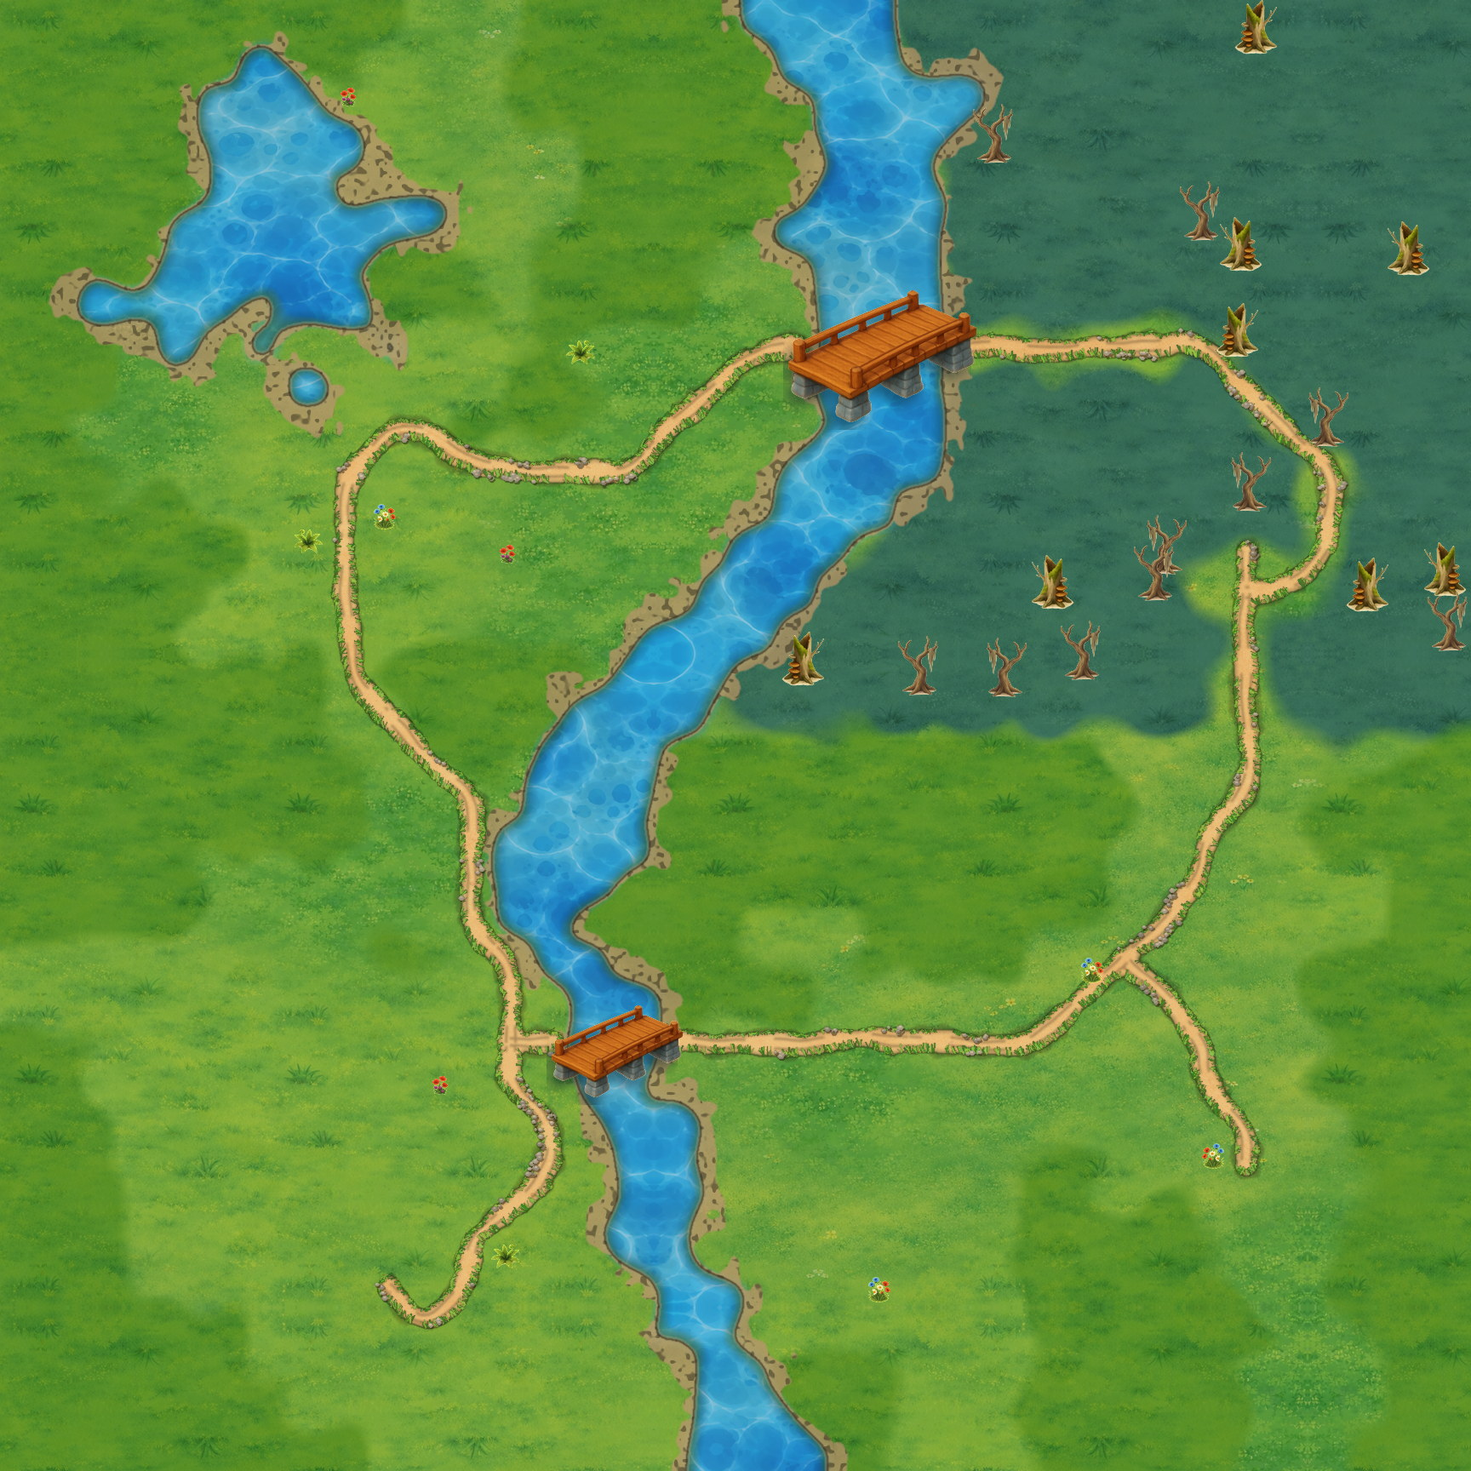
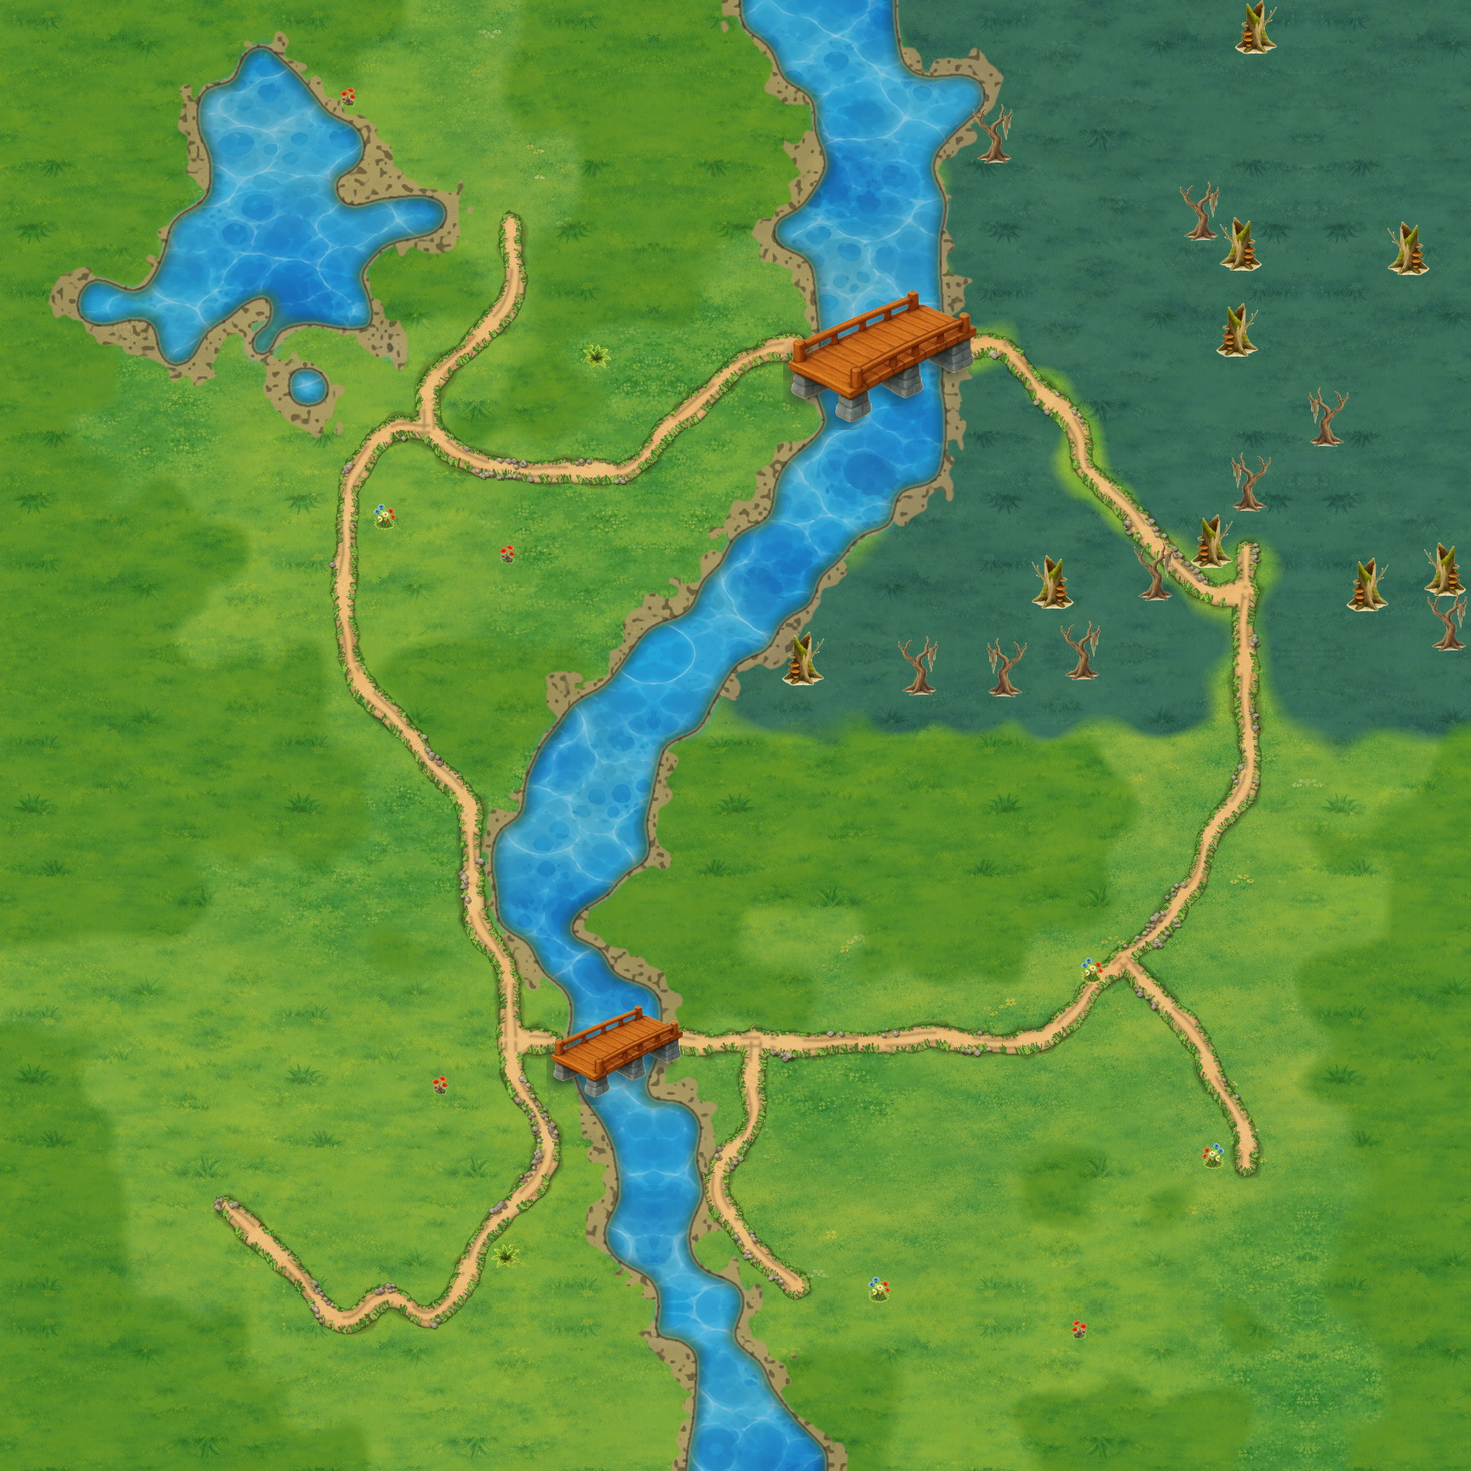
Polana, runda 4: gęstość ze startu do pasa spornego, odnogi do kopalń, grzbiety wokół fortu
- Północna łąka rozstawiona ręcznie (LAKA_POLNOCNA): stosy zamiast
  samotnych pokeballi, sklepik przy domku na drzewie; liczona jako pogranicze.
- Kopalnia odłamków w dolinie bez straży z odnogą od zamku; odnogi do
  jaskini i na plażę; sad jagód wroga wcięty w masyw granicy.
- Skały wokół fortu w dwa grzbiety z przesmykiem; polana w martwym lesie
  SE z ośrodkiem ewolucji; ranczo i stosy za mostem.
- 64 obiekty, obiekt co 8,9 pola, strefy 6/40/18, pasy [5,7,27,13,12],
  bez bitwy 24 %, ekran startowy 7 rzeczy + straż mostu.

Claude-Session: https://claude.ai/code/session_01BGiaZhgTwDgLbUxsH7vpi6

diff --git a/src/data/plansza-teren-polana.ts b/src/data/plansza-teren-polana.ts
@@ -10,38 +10,38 @@
 export const TEREN = [
   'TTTTTTTTTT###TTTTT~~~~##############',
   'TTTTTT~TT###TTTTTTT~~~##############',
-  'TTTTT~~~.#.#TTTTTTTT~~~~###j########',
-  'TTTTT~~~~.....TTTTTT~~~jj#j####jjjj#',
-  'TTTTT~~~......TTTTTT~~~jjjjj##jjjjj#',
-  'TTTT~~~~~~~...TTTTT~~~~jjjjj##jjj#j#',
-  'TTTT~~~~~TTT.TTTT..T~~~jjjjjjjjj####',
-  'TT~~~~.~~TTT.TTTT...~~~jjjjjjjjj####',
-  'TTT.~.~..~...T....============jj#j##',
-  'TTT....~....TTT..=..~~~jjjjjjj=jjjjj',
-  'TT.......==T.T..=...~~~jjjjjjjj=jjjj',
-  'TTT.....=..=====...~~~~jjjjjjjjj=jjj',
-  'TT.TT...=..........~~~jjjjj##jjj=###',
-  'TTTTTT..=.........~~~jjjjjj##j=j=###',
-  'TTTTT...=........~~~jjjjjjj##.==jj##',
+  'TTTTT~~~.#.#TTTTTTTT~~~~############',
+  'TTTTT~~~~.....TTTTTT~~~jjjj####jjjj#',
+  'TTTTT~~~......TTTTTT~~~jjjj####jjjj#',
+  'TTTT~~~~~~~.=.TTTTT~~~~jjjjjjjjjjjj#',
+  'TTTT~~~~~TTT=TTTT..T~~~jjjjjjjjjj###',
+  'TT~~~~.~~TTT=TTTT...~~~jjjjjjjjjj###',
+  'TTT.~.~..~.=.T....=======jjjjjjjj###',
+  'TTT....~..=.TTT..=..~~~jj=jjjjjjj###',
+  'TT.......==T.T..=...~~~jjj=jjjjjj###',
+  'TTT.....=..=====...~~~~jjj=jjjjjj###',
+  'TT.TT...=..........~~~jjjjj=jjjjj###',
+  'TTTTTT..=.........~~~jjjjjjj=j=jj###',
+  'TTTTT...=........~~~jjjjjjjjj==jj###',
   'TTTT....=.......~~~jjjjjjjj###=#####',
   'TTTTTTTT=TTTTTT~~~############=#####',
   'TTTTTTTT.=TTTT~~~#############=#####',
-  'TTTTTTTTT.=TT~~~TTTTTTTTTTT...=...TT',
-  'TTTTTTTTT..=.~~~TTTTTTTTTTTT..=.TTTT',
+  'TTTTTTTTT.=TT~~~TTTTTTTTTTT...=....T',
+  'TTTTTTTTT..=.~~~TTTTTTTTTTTT..=....T',
   'TTTTTTTTT..=~~~~TTTTTTTTTTT..=..TTTT',
   'TTTTT......=~~~TTTTTTTTTTTT..=....TT',
   'TTTTT......=~~TTTT...TTTTTT.=.....TT',
   '#########TT.=~~TTT...TTTT..=....TTTT',
   '#########...=.~~TTTT......=.=...TTTT',
   'TT#########.==============...=...TTT',
-  'TT#########.=.~~.............=..TTTT',
-  'TTT..........=.~~.............=..TTT',
-  'TTT..........=.~~.######.TT##.=...TT',
-  'TTT.........=..~~.######.TT#T....TTT',
-  'TTT........=...~~.....###TTTTT...TTT',
-  'TTT......=.=....~~....###TTTTT..TTTT',
-  'TTTTTT....=.....~~....###TTTTTT#.TTT',
-  'TTTTTT...........~~TTT###TTTTT####TT',
+  'TT#########.=.~~..=..........=..TTTT',
+  'TTT..........=.~~.=...........=..TTT',
+  'TTT..........=.~~=######.TT##.=...TT',
+  'TTT..=......=..~~=######.TT#T....TTT',
+  'TTT...=....=...~~.=...###........TTT',
+  'TTT....=.=.=....~~.=..###.......TTTT',
+  'TTTTTT..=.=.....~~....###.....T#.TTT',
+  'TTTTTT...........~~TTT###.....####TT',
   'TTTTTTT..........~~TTT###TTTTTT###TT',
   'TTTTTTTTT........~~~TT###TTTTT###TTT',
 ];
@@ -57,6 +57,9 @@ export const PUNKTY = {
   'wschodnia laka': { x: 27, y: 23 },
   'zamek wroga': { x: 30, y: 13 },
   'poludniowy wschod': { x: 30, y: 28 },
+  'kopalnia domu': { x: 5, y: 29 },
+  'jaskinia': { x: 19, y: 31 },
+  'plaza': { x: 12, y: 5 },
 };
 
 /**
@@ -79,25 +82,34 @@ export const ROZSTAWIENIE: Array<{
   { x: 12, y: 33, rodzaj: 'kopalnia', strefa: 'dom', surowiec: 'jagoda' },
   { x: 11, y: 27, rodzaj: 'surowiec', strefa: 'dom', surowiec: 'odlamek' },
   { x: 11, y: 28, rodzaj: 'skrzynia', strefa: 'dom' },
-  { x: 14, y: 33, rodzaj: 'skrzynia', strefa: 'dom' },
-  { x: 14, y: 34, rodzaj: 'surowiec', strefa: 'dom', surowiec: 'jagoda' },
+  { x: 5, y: 28, rodzaj: 'kopalnia', strefa: 'dom', surowiec: 'odlamek' },
   { x: 9, y: 17, rodzaj: 'potwor', strefa: 'dom', sila: 'slaby' },
   { x: 17, y: 25, rodzaj: 'potwor', strefa: 'pogranicze', sila: 'slaby' },
   { x: 23, y: 8, rodzaj: 'potwor', strefa: 'wroga', sila: 'sredni' },
   { x: 30, y: 16, rodzaj: 'potwor', strefa: 'wroga', sila: 'silny' },
-  { x: 12, y: 7, rodzaj: 'potwor', strefa: 'dom', sila: 'slaby' },
+  { x: 12, y: 7, rodzaj: 'potwor', strefa: 'pogranicze', sila: 'slaby' },
   { x: 31, y: 5, rodzaj: 'potwor', strefa: 'wroga', sila: 'sredni' },
-  { x: 10, y: 4, rodzaj: 'kopalnia', strefa: 'dom', surowiec: 'pokeball' },
-  { x: 13, y: 4, rodzaj: 'artefakt', strefa: 'dom' },
-  { x: 12, y: 3, rodzaj: 'skrzynia', strefa: 'dom' },
-  { x: 15, y: 12, rodzaj: 'budynek', strefa: 'dom', budynek: 'drzewo-wiedzy' },
-  { x: 6, y: 9, rodzaj: 'budynek', strefa: 'dom', budynek: 'zrodlo' },
-  { x: 13, y: 15, rodzaj: 'budynek', strefa: 'dom', budynek: 'gniazdo' },
-  { x: 3, y: 10, rodzaj: 'budynek', strefa: 'dom', budynek: 'chatka' },
-  { x: 9, y: 13, rodzaj: 'budynek', strefa: 'dom', budynek: 'oboz-treningowy' },
-  { x: 5, y: 15, rodzaj: 'surowiec', strefa: 'dom', surowiec: 'pokeball' },
-  { x: 18, y: 11, rodzaj: 'surowiec', strefa: 'dom', surowiec: 'pokeball' },
-  { x: 12, y: 12, rodzaj: 'skrzynia', strefa: 'dom' },
+  { x: 10, y: 4, rodzaj: 'kopalnia', strefa: 'pogranicze', surowiec: 'pokeball' },
+  { x: 13, y: 4, rodzaj: 'artefakt', strefa: 'pogranicze' },
+  { x: 12, y: 3, rodzaj: 'skrzynia', strefa: 'pogranicze' },
+  { x: 11, y: 4, rodzaj: 'surowiec', strefa: 'pogranicze', surowiec: 'kamien' },
+  { x: 6, y: 9, rodzaj: 'budynek', strefa: 'pogranicze', budynek: 'zrodlo' },
+  { x: 3, y: 10, rodzaj: 'budynek', strefa: 'pogranicze', budynek: 'chatka' },
+  { x: 5, y: 12, rodzaj: 'budynek', strefa: 'pogranicze', budynek: 'woz' },
+  { x: 5, y: 14, rodzaj: 'skrzynia', strefa: 'pogranicze' },
+  { x: 4, y: 15, rodzaj: 'surowiec', strefa: 'pogranicze', surowiec: 'jagoda' },
+  { x: 6, y: 15, rodzaj: 'surowiec', strefa: 'pogranicze', surowiec: 'pokeball' },
+  { x: 10, y: 13, rodzaj: 'budynek', strefa: 'pogranicze', budynek: 'oboz-treningowy' },
+  { x: 12, y: 12, rodzaj: 'skrzynia', strefa: 'pogranicze' },
+  { x: 11, y: 12, rodzaj: 'surowiec', strefa: 'pogranicze', surowiec: 'odlamek' },
+  { x: 15, y: 12, rodzaj: 'budynek', strefa: 'pogranicze', budynek: 'drzewo-wiedzy' },
+  { x: 13, y: 15, rodzaj: 'budynek', strefa: 'pogranicze', budynek: 'gniazdo' },
+  { x: 18, y: 11, rodzaj: 'surowiec', strefa: 'pogranicze', surowiec: 'pokeball' },
+  { x: 17, y: 12, rodzaj: 'skrzynia', strefa: 'pogranicze' },
+  { x: 15, y: 9, rodzaj: 'surowiec', strefa: 'pogranicze', surowiec: 'kamien' },
+  { x: 16, y: 9, rodzaj: 'surowiec', strefa: 'pogranicze', surowiec: 'odlamek' },
+  { x: 16, y: 14, rodzaj: 'skrzynia', strefa: 'pogranicze' },
+  { x: 15, y: 14, rodzaj: 'surowiec', strefa: 'pogranicze', surowiec: 'jagoda' },
   { x: 19, y: 30, rodzaj: 'kopalnia', strefa: 'pogranicze', surowiec: 'odlamek' },
   { x: 18, y: 23, rodzaj: 'budynek', strefa: 'pogranicze', budynek: 'wieza-obserwacyjna' },
   { x: 25, y: 23, rodzaj: 'skrzynia', strefa: 'pogranicze' },
@@ -107,16 +119,24 @@ export const ROZSTAWIENIE: Array<{
   { x: 31, y: 29, rodzaj: 'artefakt', strefa: 'pogranicze' },
   { x: 28, y: 20, rodzaj: 'kopalnia', strefa: 'pogranicze', surowiec: 'kamien' },
   { x: 32, y: 21, rodzaj: 'surowiec', strefa: 'pogranicze', surowiec: 'pokeball' },
+  { x: 33, y: 21, rodzaj: 'surowiec', strefa: 'pogranicze', surowiec: 'jagoda' },
   { x: 31, y: 24, rodzaj: 'budynek', strefa: 'pogranicze', budynek: 'arena' },
   { x: 30, y: 26, rodzaj: 'budynek', strefa: 'pogranicze', budynek: 'wiatrak' },
-  { x: 25, y: 9, rodzaj: 'artefakt', strefa: 'wroga' },
+  { x: 28, y: 31, rodzaj: 'budynek', strefa: 'pogranicze', budynek: 'osrodek-ewolucji' },
+  { x: 25, y: 32, rodzaj: 'skrzynia', strefa: 'pogranicze' },
+  { x: 26, y: 33, rodzaj: 'surowiec', strefa: 'pogranicze', surowiec: 'odlamek' },
+  { x: 26, y: 30, rodzaj: 'artefakt', strefa: 'pogranicze' },
+  { x: 33, y: 19, rodzaj: 'budynek', strefa: 'pogranicze', budynek: 'ranczo' },
+  { x: 25, y: 10, rodzaj: 'artefakt', strefa: 'wroga' },
   { x: 24, y: 10, rodzaj: 'surowiec', strefa: 'wroga', surowiec: 'pokeball' },
   { x: 25, y: 11, rodzaj: 'surowiec', strefa: 'wroga', surowiec: 'kamien' },
   { x: 26, y: 6, rodzaj: 'skrzynia', strefa: 'wroga' },
   { x: 24, y: 5, rodzaj: 'budynek', strefa: 'wroga', budynek: 'ognisko' },
-  { x: 34, y: 11, rodzaj: 'surowiec', strefa: 'wroga', surowiec: 'kamien' },
-  { x: 35, y: 11, rodzaj: 'surowiec', strefa: 'wroga', surowiec: 'pokeball' },
-  { x: 35, y: 9, rodzaj: 'skrzynia', strefa: 'wroga' },
+  { x: 23, y: 12, rodzaj: 'skrzynia', strefa: 'wroga' },
+  { x: 27, y: 14, rodzaj: 'surowiec', strefa: 'wroga', surowiec: 'pokeball' },
+  { x: 24, y: 15, rodzaj: 'kopalnia', strefa: 'wroga', surowiec: 'jagoda' },
+  { x: 28, y: 6, rodzaj: 'skrzynia', strefa: 'wroga' },
+  { x: 29, y: 7, rodzaj: 'surowiec', strefa: 'wroga', surowiec: 'odlamek' },
   { x: 31, y: 3, rodzaj: 'kopalnia', strefa: 'wroga', surowiec: 'pokeball' },
   { x: 34, y: 3, rodzaj: 'artefakt', strefa: 'wroga' },
   { x: 33, y: 4, rodzaj: 'skrzynia', strefa: 'wroga' },

diff --git a/tools/mapy/polana.py b/tools/mapy/polana.py
@@ -53,6 +53,13 @@ się jako trzeci, piaszczysty bród. Ekran startowy: 10 obiektów z zamkiem,
 suchym, wschodnim brzegu; straż plaży i straż mostu mają ściany lasu po obu
 stronach. Kopalnie gracza bez dubla kamienia: kamieniołom, sad, jaskinia
 odłamków w kieszeni, sad na północnej łące, złoto na plaży.
+
+Runda 15 (werdykt r4: przegrana ślepo, 22 TAK / 7 CZĘŚCIOWO / 1 NIE — G1;
+„za rzadka, pas sporny najchudszy"). Obiekt co 8,9 pola (64), pas sporny
+(północna łąka za strażą (9, 17) i łąka za mostem) jest najbogatszy, ekran
+startowy ma 7 rzeczy i straż mostu. Kopalnia odłamków stoi w dolinie bez
+straży, jaskinia (19, 30) i plaża mają odnogi traktu, wróg ma sad (24, 15).
+Skały wokół fortu tworzą dwa grzbiety zamiast rozsypanych kopców.
 """
 
 import math
@@ -218,6 +225,11 @@ PUNKTY = {
     'zamek wroga': (30, 13),
     # Runda 12 (F1): południowa odnoga kończy się na skrzyni, nie w lesie.
     'poludniowy wschod': (30, 28),
+    # Runda 15 (D1): odnogi traktu do kopalń — odłamki za zamkiem, jaskinia
+    # w kieszeni za mostem (wzdłuż brzegu, 17, 26–30), plaża ze złotem.
+    'kopalnia domu': (5, 29),
+    'jaskinia': (19, 31),
+    'plaza': (12, 5),
 }
 
 #: Drogi. Główna prowadzi z zamku przez południowy bród pod sam fort — gracz,
@@ -227,6 +239,9 @@ SZLAKI = [
     ['zamek gracza', 'start', 'brod zachod', 'brod wschod', 'wschodnia laka', 'zamek wroga'],
     ['brod zachod', 'polnocna laka', 'brod polnocny zachod', 'brod polnocny wschod', 'zamek wroga'],
     ['wschodnia laka', 'poludniowy wschod'],
+    ['zamek gracza', 'kopalnia domu'],
+    ['brod wschod', 'jaskinia'],
+    ['polnocna laka', 'plaza'],
 ]
 
 #: Runda 12: granica krainy wroga — wiersz, do którego (włącznie) sięga za
@@ -473,6 +488,30 @@ def popraw_teren(g, mapa):
             for x in range(x0, x1 + 1):
                 if mapa[y][x] in '.,jT':
                     mapa[y][x] = '#'
+    # Runda 15 (E4): misa fortu bez rozsypanych kopców, skały w dwóch
+    # grzbietach (`GRZBIETY_FORTU`).
+    def w_grzbiecie(x, y):
+        return any(a <= x <= c and b <= y <= d for a, b, c, d in GRZBIETY_FORTU)
+
+    mx0, my0, mx1, my1 = MISA_FORTU
+    for y in range(my0, my1 + 1):
+        for x in range(mx0, mx1 + 1):
+            if mapa[y][x] == '#' and strefa(x, y) == 'wroga' and not w_grzbiecie(x, y):
+                mapa[y][x] = 'j'
+    for x0, y0, x1, y1 in GRZBIETY_FORTU:
+        for y in range(y0, y1 + 1):
+            for x in range(x0, x1 + 1):
+                if mapa[y][x] in '.,jT':
+                    mapa[y][x] = '#'
+    for x, y in KARCZUNEK_RANCZA:
+        if mapa[y][x] == 'T':
+            mapa[y][x] = '.'
+    # Runda 15 (B4, E2): polana w lesie SE.
+    x0, y0, x1, y1 = POLANA_SE
+    for y in range(y0, y1 + 1):
+        for x in range(x0, x1 + 1):
+            if mapa[y][x] in 'T#':
+                mapa[y][x] = '.'
 
 
 #: Runda 13 (G4): masyw zamykający krainę wroga od południa (x0, y0, x1, y1).
@@ -480,12 +519,31 @@ SKALY_WROGA = [(22, 16, 29, 17)]
 
 FORT = PUNKTY['zamek wroga']
 
+#: Runda 15: wiersz szczeliny w lesie nad doliną domu — północ od niego to
+#: już pas sporny (patrz `strefa`).
+PRZELECZ_DOMU_Y = 16
+
+#: Runda 15 (E4): skały wokół fortu jednym pasmem — grzbiet północny
+#: (27–30, 2–4), który z przesmykiem (31, 5) zamyka róg NE, i grzbiet
+#: wschodni (33–35, 6–14) schodzący do masywu granicy. Pojedyncze kopce
+#: w misie fortu (25, 3), (27–28, 12–15), (28–29, 5), (32, 6–7) znikają.
+GRZBIETY_FORTU = [(27, 2, 30, 4), (33, 6, 35, 14)]
+MISA_FORTU = (23, 3, 34, 14)
+
+#: Runda 15 (B4, E2): polana w martwym masywie lasu na południowym wschodzie
+#: (x0, y0, x1, y1) — wejście od końca odnogi (30, 30–31), w środku ośrodek
+#: ewolucji i stos.
+POLANA_SE = (25, 30, 29, 33)
+
 
 def strefa(x, y):
     """Za rzeką zaczyna się „pogranicze", a za pasem lasu (wiersze 15–17)
     na północ — kraina wroga (runda 12: granica stref = granica terenu)."""
     if x < rzeka_x(y):
-        return 'dom'
+        # Runda 15 (E2, G1): północna łąka za strażą przełęczy (9, 17) to pas
+        # sporny, nie dom — dolina domu kończy się na grzbiecie lasu w wierszu
+        # 16. Tak liczy ją krytyk („pas sporny z pustą zachodnią łąką").
+        return 'pogranicze' if y <= PRZELECZ_DOMU_Y else 'dom'
     if y <= GRANICA_WROGA:
         return 'wroga'
     return 'pogranicze'
@@ -579,10 +637,10 @@ PIERWSZY_EKRAN_DOM = [
     # Runda 12 (G2): skrzynia leżała na trakcie tuż przed mostem — teraz
     # w stosie z odłamkami przy kopalni.
     ([(11, 28), (10, 29)], ('skrzynia', None)),
-    # Runda 14 (B2): skrzynia (9, 34) i koszyk (6, 30) leżały w bezdrożnym
-    # lesie SW — teraz stos na końcu odnogi, za sadem.
-    ([(14, 33), (15, 33), (15, 34)], ('skrzynia', None)),
-    ([(14, 34), (13, 34), (14, 35)], ('surowiec', 'jagoda')),
+    # Runda 15 (A2, G1): kopalnia odłamków w dolinie, bez straży, za zamkiem
+    # na końcu krótkiej odnogi traktu. Stos skrzynia + jagoda spod sadu
+    # (14, 33–34) poszedł na zachodnią łąkę (`LAKA_POLNOCNA`).
+    ([(5, 28), (4, 28), (6, 28)], ('kopalnia', 'odlamek')),
 ]
 
 #: Runda 13 (B1): jaskinia odłamków stała na północnej łące. Runda 14 (B1):
@@ -609,6 +667,29 @@ STOS_POGRANICZA = [
     ([(25, 24), (24, 24)], ('surowiec', 'odlamek')),
 ]
 
+#: Runda 15 (B2, B3, E2): północna łąka (pas sporny za strażą (9, 17)) —
+#: budowle i stosy po 2–3 na stałych miejscach. Zachodnia łąka (2–7, 9–15)
+#: dostaje stos spod sadu i wędrowny sklepik przy domku na drzewie.
+LAKA_POLNOCNA = [
+    ([(6, 9), (5, 9)], ('budynek', 'zrodlo')),
+    ([(3, 10), (3, 11)], ('budynek', 'chatka')),
+    ([(5, 12), (6, 12), (6, 11)], ('budynek', 'woz')),
+    ([(5, 14), (6, 14)], ('skrzynia', None)),
+    ([(4, 15), (4, 14)], ('surowiec', 'jagoda')),
+    ([(6, 15), (7, 15)], ('surowiec', 'pokeball')),
+    ([(10, 13), (9, 13)], ('budynek', 'oboz-treningowy')),
+    ([(12, 12), (12, 13)], ('skrzynia', None)),
+    ([(11, 12), (13, 13)], ('surowiec', 'odlamek')),
+    ([(15, 12), (15, 13)], ('budynek', 'drzewo-wiedzy')),
+    ([(13, 15), (14, 15)], ('budynek', 'gniazdo')),
+    ([(18, 11), (17, 11)], ('surowiec', 'pokeball')),
+    ([(17, 12), (18, 12)], ('skrzynia', None)),
+    ([(15, 9), (15, 8)], ('surowiec', 'kamien')),
+    ([(16, 9), (16, 8)], ('surowiec', 'odlamek')),
+    ([(16, 14), (16, 13)], ('skrzynia', None)),
+    ([(16, 15), (15, 14)], ('surowiec', 'jagoda')),
+]
+
 #: Runda 12: plaża nad jeziorem — kieszeń za strażą (12, 6).
 #: Runda 13 (C1, C3): obóz łowców (złoto) wcięty w skałki plaży — straż
 #: (12, 6) pilnuje całej kieszeni: kopalni, artefaktu i skrzyni. Dotąd obóz
@@ -617,7 +698,7 @@ PLAZA_SKARB = [
     ([(10, 4), (10, 3), (9, 4)], ('kopalnia', 'pokeball')),
     ([(13, 4), (12, 4), (13, 3)], ('artefakt', None)),
     ([(12, 3), (13, 3), (12, 4)], ('skrzynia', None)),
-    ([(8, 4), (8, 3), (9, 3)], ('surowiec', 'kamien')),
+    ([(8, 4), (8, 3), (9, 3), (11, 4)], ('surowiec', 'kamien')),
 ]
 
 #: Runda 12: nagrody krainy wroga — za brodem i przy forcie, w stosach po
@@ -631,9 +712,16 @@ KRAINA_WROGA = [
     ([(24, 5), (25, 4), (24, 4)], ('budynek', 'ognisko')),
     # Runda 13 (G2): stos przy forcie odsunięty od jego rysunku — skrzynia
     # (33, 9) dotykała flagi fortu (32, 9).
-    ([(34, 11), (33, 11)], ('surowiec', 'kamien')),
-    ([(35, 11), (35, 10)], ('surowiec', 'pokeball')),
-    ([(35, 9), (35, 10)], ('skrzynia', None)),
+    # Runda 15 (E4): stos spod wschodniego grzbietu (34–35, 9–11) przeniesiony
+    # na zachodnią stronę fortu, gdzie stały kopce (27–28, 12–14), z dala
+    # od jego dachu i od dachu sadu.
+    ([(23, 12), (23, 11)], ('skrzynia', None)),
+    ([(27, 14), (26, 12)], ('surowiec', 'pokeball')),
+    # Runda 15 (B1): sad wroga wcięty w masyw granicy, w misie fortu.
+    ([(24, 15), (23, 15), (25, 15)], ('kopalnia', 'jagoda')),
+    # Runda 15 (B3): stos pod północnym grzbietem, przy trakcie z mostu.
+    ([(28, 6), (28, 7)], ('skrzynia', None)),
+    ([(29, 7), (29, 6)], ('surowiec', 'odlamek')),
 ]
 
 #: Runda 12: róg NE (31–35, 1–5) za skałami — kieszeń za strażą (31, 5).
@@ -653,9 +741,24 @@ ROG_SKARB = [
 LAKA_POGRANICZA = [
     ([(28, 20), (28, 19), (27, 20)], ('kopalnia', 'kamien')),
     ([(32, 21), (32, 20), (33, 21)], ('surowiec', 'pokeball')),
+    # Runda 15 (B2): pokeballe nie leżą same — stos z jagodami.
+    ([(33, 21), (33, 22), (31, 21)], ('surowiec', 'jagoda')),
     ([(32, 24), (31, 24), (32, 25)], ('budynek', 'arena')),
     ([(30, 26), (29, 26), (30, 27)], ('budynek', 'wiatrak')),
 ]
+
+#: Runda 15 (B4, E2): polana w lesie SE (`POLANA_SE`).
+POLANA_SE_OBIEKTY = [
+    ([(28, 31), (27, 31)], ('budynek', 'osrodek-ewolucji')),
+    ([(25, 32), (25, 31)], ('skrzynia', None)),
+    ([(26, 33), (25, 33)], ('surowiec', 'odlamek')),
+    ([(26, 30), (25, 30)], ('artefakt', None)),
+]
+
+#: Runda 15 (B4): ranczo w wykarczowanym rogu łąki pogranicza (32–34, 18–19),
+#: pod lasem przełęczy fortu.
+RANCZO = [(33, 19), (32, 19)]
+KARCZUNEK_RANCZA = [(34, 18), (32, 19), (33, 19), (34, 19)]
 
 #: Runda 12 (F2): chata jasnowidza przy rozstajach za mostem — widać ją
 #: z traktu, prosi o kamienie, po które trzeba iść do krainy wroga i wrócić.
@@ -691,8 +794,6 @@ def postaw_kadr(g, miejsca, wpis):
 
 
 def rozstaw(g):
-    rng = g.rng
-
     # --- DOLINA DOMU -------------------------------------------------------
     # Pierwsze dwa dni: stosy przy zamku, skrzynia i dwie kopalnie podstawowe
     # bez straży. Dziecko ma zobaczyć nagrodę za każdy krok, zanim zobaczy
@@ -746,11 +847,11 @@ def rozstaw(g):
     # Runda 14 (G2, F3): bez ogniska (stoi w krainie wroga), a każda
     # budowla co najmniej trzy pola od innych rzeczy — gniazdo, obóz
     # i stos odłamków stały w jednej kupce, źródło dach w dach z ogniskiem.
-    for b in ['drzewo-wiedzy', 'zrodlo', 'gniazdo', 'chatka', 'oboz-treningowy']:
-        g.dodaj(1, 'dom', (4, 30), lambda p, b=b: ('budynek', b), odstep=3)
-    # Runda 14 (G2): stosy łąki też z odstępem — nie przyklejone do budowli.
-    g.dodaj(2, 'dom', (8, 30), lambda p: ('surowiec', rng.choice(['jagoda', 'odlamek', 'pokeball'])), odstep=2)
-    g.dodaj(1, 'dom', (8, 30), lambda p: ('skrzynia', None), odstep=2)
+    # Runda 15 (B2, B3, E2): północna łąka rozstawiona ręcznie
+    # (`LAKA_POLNOCNA`) — losowanie zostawiało pustą zachodnią łąkę
+    # i samotne pokeballe.
+    for miejsca, wpis in LAKA_POLNOCNA:
+        postaw_kadr(g, miejsca, wpis)
     # Kieszeń domu bywa po rundzie 4 ciasna (rzeka skręca przez dolinę):
     # gdy każde miejsce w niej zatyka drogę, skarb w kieszeni odpada.
     try:
@@ -785,8 +886,9 @@ def rozstaw(g):
     # Runda 14 (G2, F3, B1): łąka pogranicza rozstawiona ręcznie
     # (`LAKA_POGRANICZA`) — losowanie zsypywało kopalnię, dwa stosy jagód,
     # ognisko, gniazdo i skrzynię w jedną kolumnę pod przełęczą fortu.
-    for miejsca, wpis in LAKA_POGRANICZA:
+    for miejsca, wpis in LAKA_POGRANICZA + POLANA_SE_OBIEKTY:
         postaw_kadr(g, miejsca, wpis)
+    postaw_kadr(g, RANCZO, ('budynek', 'ranczo'))
     # Kieszeń pogranicza: artefakt i skrzynie za jedną średnią strażą (C1, B4).
     kieszen = iter([('artefakt', None), ('skrzynia', None), ('surowiec', 'kamien')])
     try:
